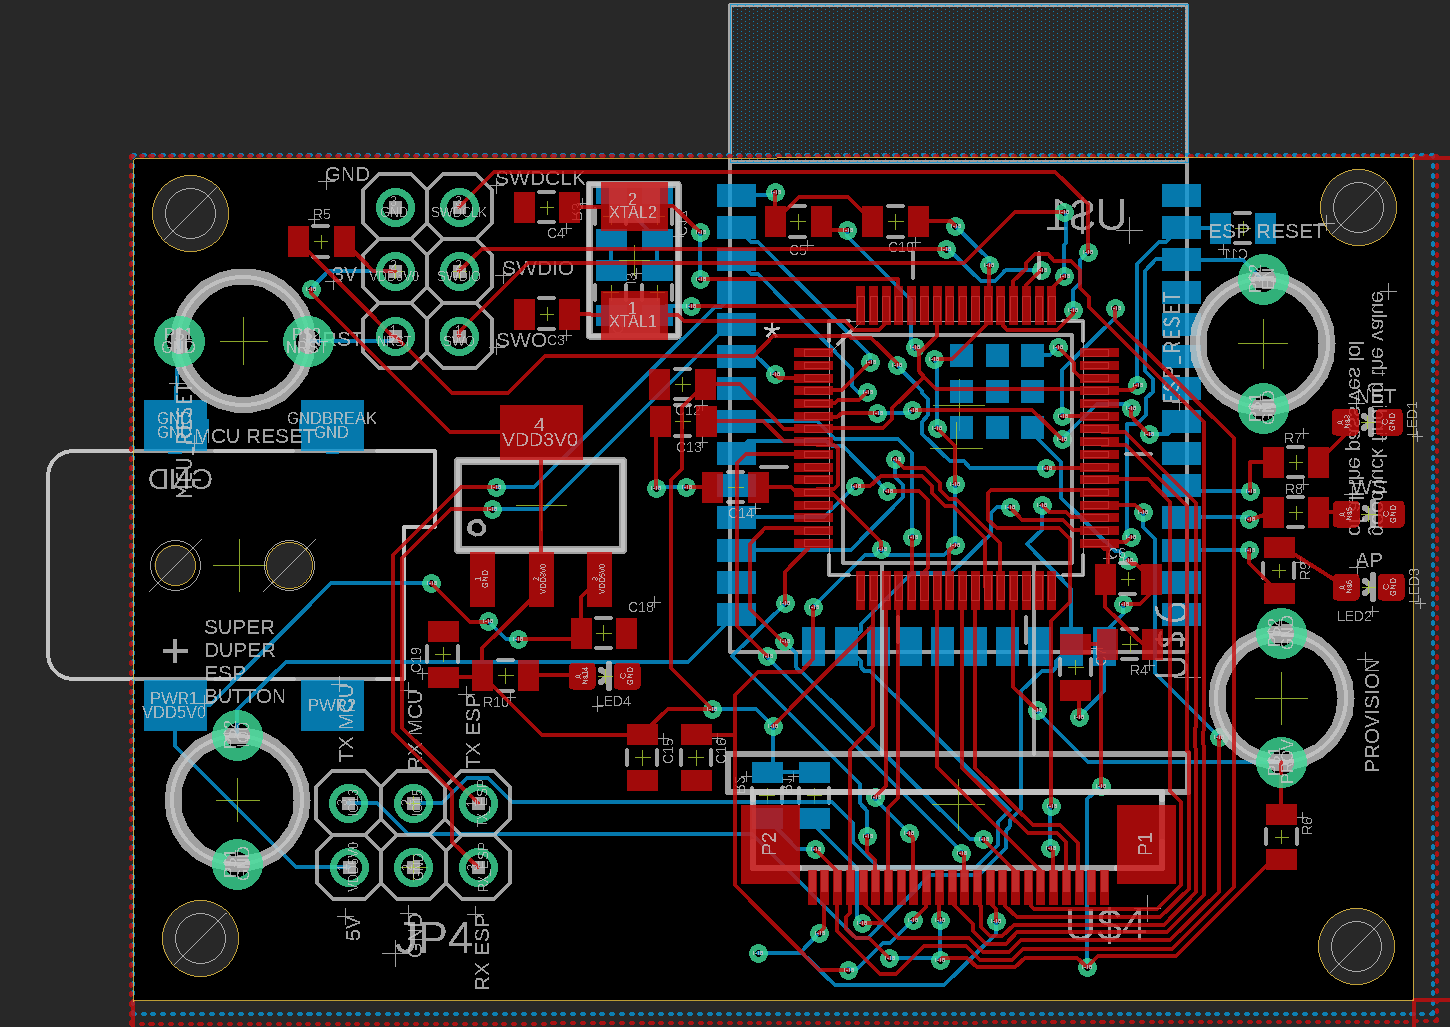
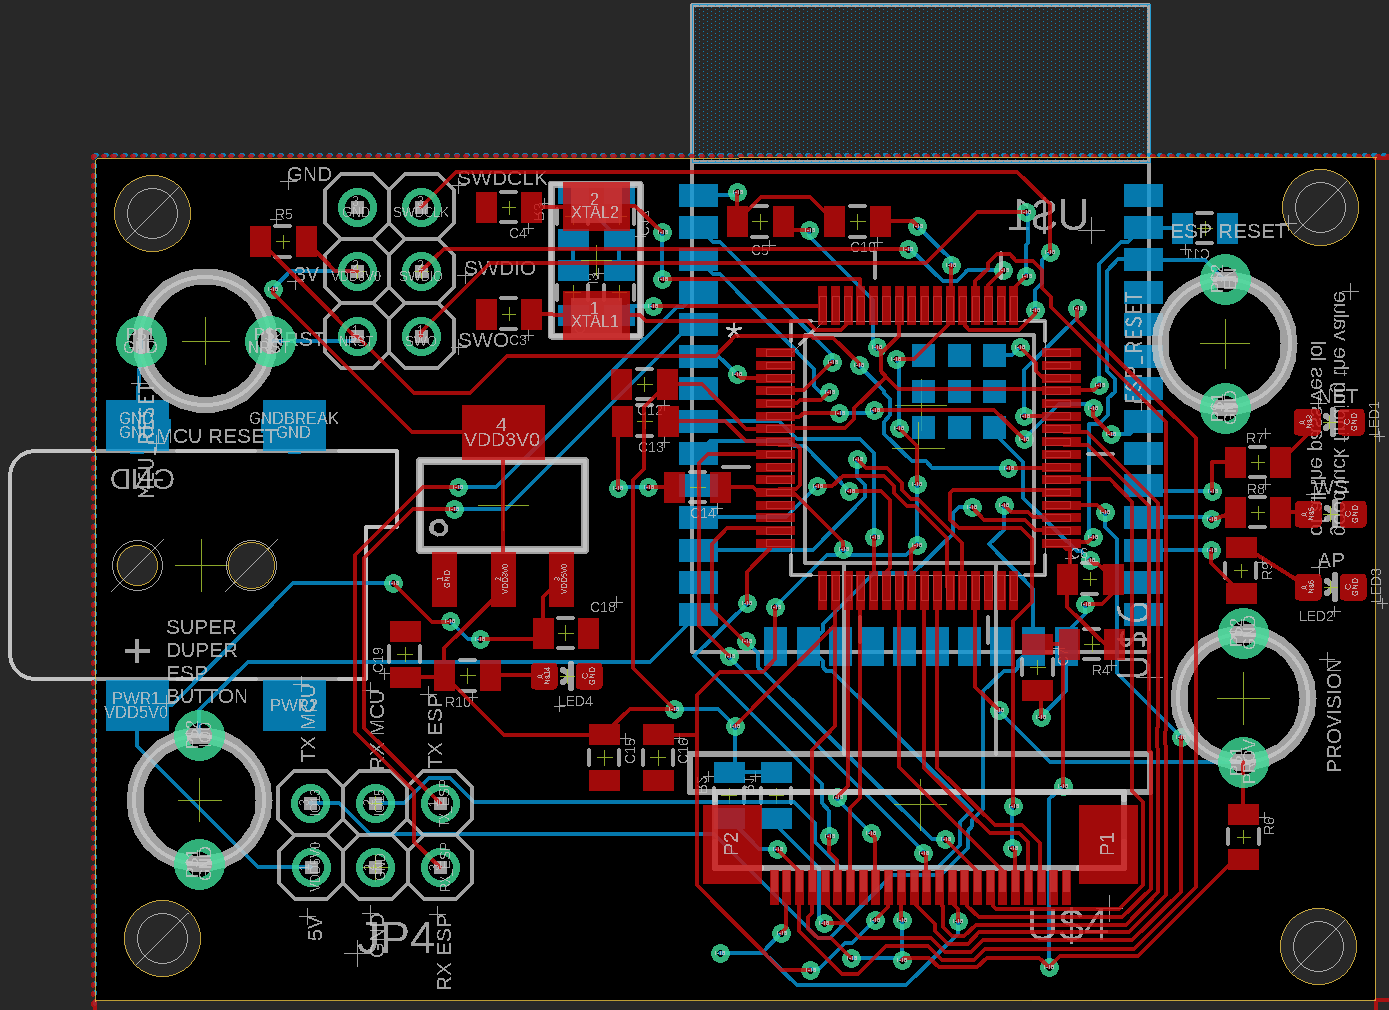
more ESD

diff --git a/webcam.html b/webcam.html
@@ -6,6 +6,7 @@
     <meta charset="utf-8" />
     <meta name="viewport" content="width=device-width, initial-scale=1, user-scalable=no" />
     <link rel="stylesheet" href="assets/css/main.css" />
+    <link href="https://cdnjs.cloudflare.com/ajax/libs/font-awesome/6.0.0/css/all.min.css" rel="stylesheet">
     <noscript><link rel="stylesheet" href="assets/css/noscript.css" /></noscript>
 </head>
 <body class="is-preload">
@@ -100,18 +101,41 @@
                         <span id="lightbox-close">&times;</span>
                     </div>
                 </div>
+
+                <p>
+                    To test the functionality of my circuits and microcontrollers before developing a production board, I created a handful of breakout boards which would allow me to quickly assemble the system with easy
+                    points for scoping. In total, I created a board for the each microcontroller as well as a shield for the camera. Once the circuits were validated, these boards allowed me to begin to write my firmware
+                    for the MCU's in parallel with with the design and manufacturing of the final circuit board, and I used them for the duration of the project. Below is a before and after of the breakout boards and the final 
+                    completed camera:
+                </p>
+
+                <div class="image-comparison">
+                    <img src="images/esd/brkout copy.jpg" alt="Breakout Boards" class="image-left">
+
+                    <!--<div class="arrow">&rarr;</div>  Unicode arrow -->
+                    <div class="arrow"><i class="fas fa-arrow-right"></i></div>
+                    <img src="images/esd/camSQuar.jpg" alt="After" class="image-right">
+                </div>
+
+                <br> <br>
+                
+
+                <div style="clear:both"></div>
+
+                <h2>Layout &amp; Schematic</h2>
+
                 <div class="box alt">
                     <div class="row gtr-50 gtr-uniform">
                         <div class="col-6">
                             <span class="image fit">
-                                <img src="images/esd/brkout.jpg" alt="" class="gallery-item" data-description="Breakout Board system Wired" />
+                                <img src="images/esd/eds1.png" alt="PCB Design (EagleCAD)" class="gallery-item" data-description="PCB Layout" />
                                 <p class="caption">Each breakout board combined</p>
                             </span>
                         </div>
                         <div class="col-6">
                             <span class="image fit">
-                                <img src="images/esd/camBRD.png" alt="" class="gallery-item" data-description="Wow so nice... (hire me pls)" />
-                                <p class="caption">Camera Board Initial Print</p>
+                                <img src="images/esd/eds2.png" alt="" class="gallery-item" data-description="Probably not my prettiest, but well labeled and separated." />
+                                <p class="caption">Web Camera Schematic</p>
                             </span>
                         </div>
 
@@ -127,20 +151,69 @@
                         <span id="lightbox-close">&times;</span>
                     </div>
                 </div>
-                <p>
-                    To test the functionality of my circuits and microcontrollers before developing a production board, I created a handful of breakout boards which would allow me to quickly assemble the system with easy
-                    points for scoping. In total, I created a board for the each microcontroller as well as a shield for the camera. 
-                </p>
-
-                <div style="clear:both"></div>
-
-                <h2>Layout</h2>
-                <div style="text-align:center;">
-                    <img src="images/esd/eds1.png" alt="PCB Design (EagleCAD)" style="width:90%; margin-bottom:20px;" />
+                <div class="row aln-top gtr-uniform">
+                    <!-- List -->
+                    <div class="col-7">
+                        <ul class="adjacent-list">
+                            <ul style="font-size: 1.1rem;"><strong>Function:</strong>
+                                <ul style="font-size: 1rem;">
+                                    <li> A wireless web camera that hosts a website and stream video at 480p, at 20 frames per second</li>   
+                                </ul>
+                            </ul>
+                            <ul style="font-size: 1.1rem;"><strong>Functional Breakdown:</strong>
+                                <ul style="font-size: 1rem;">
+                                    <li>Provides <b>2 SPI ports</b>, <b>4 UART ports</b>, and <b>3 CAN busses</b> for connection to the microcontroller to support multiple types of peripherals</li>
+                                    <li>Directly commands subsystems motor controllers</li>
+                                    <li>Communicates between subsystems too coordinate movement between all 4 devices via an external CAN Bus</li>
+                                    <li>Controls activation of each motor E-Stop by direct interface with NPN BJT's on the power board</li>
+                                    <li>Connects Teensy Microcontroller to peripheral sensors and encoders</li>
+                                    <li>Displays system state with 3 RGB LED's</li>
+                                    <li>Provides <b>2 SPI</b>, <b>4 UART</b>, and <b>3 CAN</b> connections to the microcontroller to support multiple types of peripherals</li>
+                                </ul>
+                            </ul>
+                            <ul style="font-size: 1.1rem;"><strong>Design Features:</strong>
+                                <ul style="font-size: 1rem;">
+                                    <li><strong>Expansion Support:</strong> Contains a surplus of I/O ports so that different peripherals &amp; components can be added in future</li>
+                                    <li><strong>Signal Integrity:</strong> Controlled impedance routing for high-speed signals, ground plane is minimally interrupted, stitching vias exist throughout the board to guarantee low-impedance return path</li>
+                                    <li><strong>Filtering:</strong> Bypass Capacitors at various power and GPIO pins act as Low Pass filters for the MCU  </li>
+                                    <li><strong>High Reparability:</strong> Teensy and CAN transceivers, the two most probable chips to burn out, are implemented in socket (P-DIP) packages for easy replacement.</li>
+                                    <li><strong>Easy Debugging:</strong> Onboard LEDs indicate CAN activity, Teensy Microcontroller is broken-out into headers for testing and scoping, and an onboard toggle switch allows for easy power cycling</li>
+                                    <li><strong>Compact Layout:</strong> Optimized for minimal space without sacrificing functionality</li>
+                                </ul>
+                            </ul>
+                        </ul>
+                    </div>
+                    <!-- Table -->
+                    <div class="col-5">
+                        <div class="table-stack">
+                            <table class="compact-table">
+                                <thead>
+                                    <tr><th>Physical Characteristic</th><th>Value</th></tr>
+                                </thead>
+                                <tbody>
+                                    <tr><td><strong>Layers</strong></td><td>2</td></tr>
+                                    <tr><td><strong>Dimensions</strong></td><td>50mm &times; 33mm</td></tr>
+                                    <tr><td><strong>Thickness</strong></td><td>1.6mm</td></tr>
+                                    <tr><td><strong>Copper Thickness</strong></td><td>1 Oz./ft<sup>2</sup></td></tr>
+                                    <tr><td><strong>Substrate</strong></td><td>FR-4</td></tr>
+                                    <tr><td><strong>Minimum Track Spacing</strong></td><td>4 mil</td></tr>
+                                    <tr><td><strong>Vias</strong></td><td>Tented, 0.3mm</td></tr>
+                                </tbody>
+                            </table>
+                            <table class="compact-table">
+                                <thead>
+                                    <tr><th>Threat</th><th>Mitigation Feature</th></tr>
+                                </thead>
+                                <tbody>
+                                    <tr><td><strong>Signal Noise</strong></td><td>Decoupling Capacitors</td></tr>
+                                    <tr><td><strong>Parasitic Capacitance</strong></td><td>Stitching Vias, <br> Trace Spacing</td></tr>
+                                    <tr><td><strong>Data Corruption</strong></td><td>Parity Check, <br> Short Trace Length</td></tr>
+                                </tbody>
+                            </table>
+                    
+                        </div>
+                    </div>
                 </div>
-                <p>
-                    Above you can see the overall camera layout. The ATSAM MCU on the opposite side of the ESP32. There are LED indicators on the right side of the board 
-                </p>
                 
                 
                 <div style="text-align:center;">

diff --git a/assets/css/main.css b/assets/css/main.css
@@ -5118,6 +5118,24 @@ input, select, textarea {
 		flex-direction: column; /* Stack tables vertically */
 		gap: .1rem; /* Add spacing between tables */
 	}
+	.image-comparison {
+		display: flex;
+		align-items: center;
+		justify-content: center;
+		gap: 20px; /* Spacing between images and the arrow */
+	}
+	
+	.image-left, .image-right {
+		max-width: 45%; /* Adjust image size */
+		height: auto;
+	}
+	
+	.arrow {
+		font-size: 2rem; /* Adjust the size of the arrow */
+		color: #333; /* Change the arrow color */
+	}
+	
+	
 	
 
 
